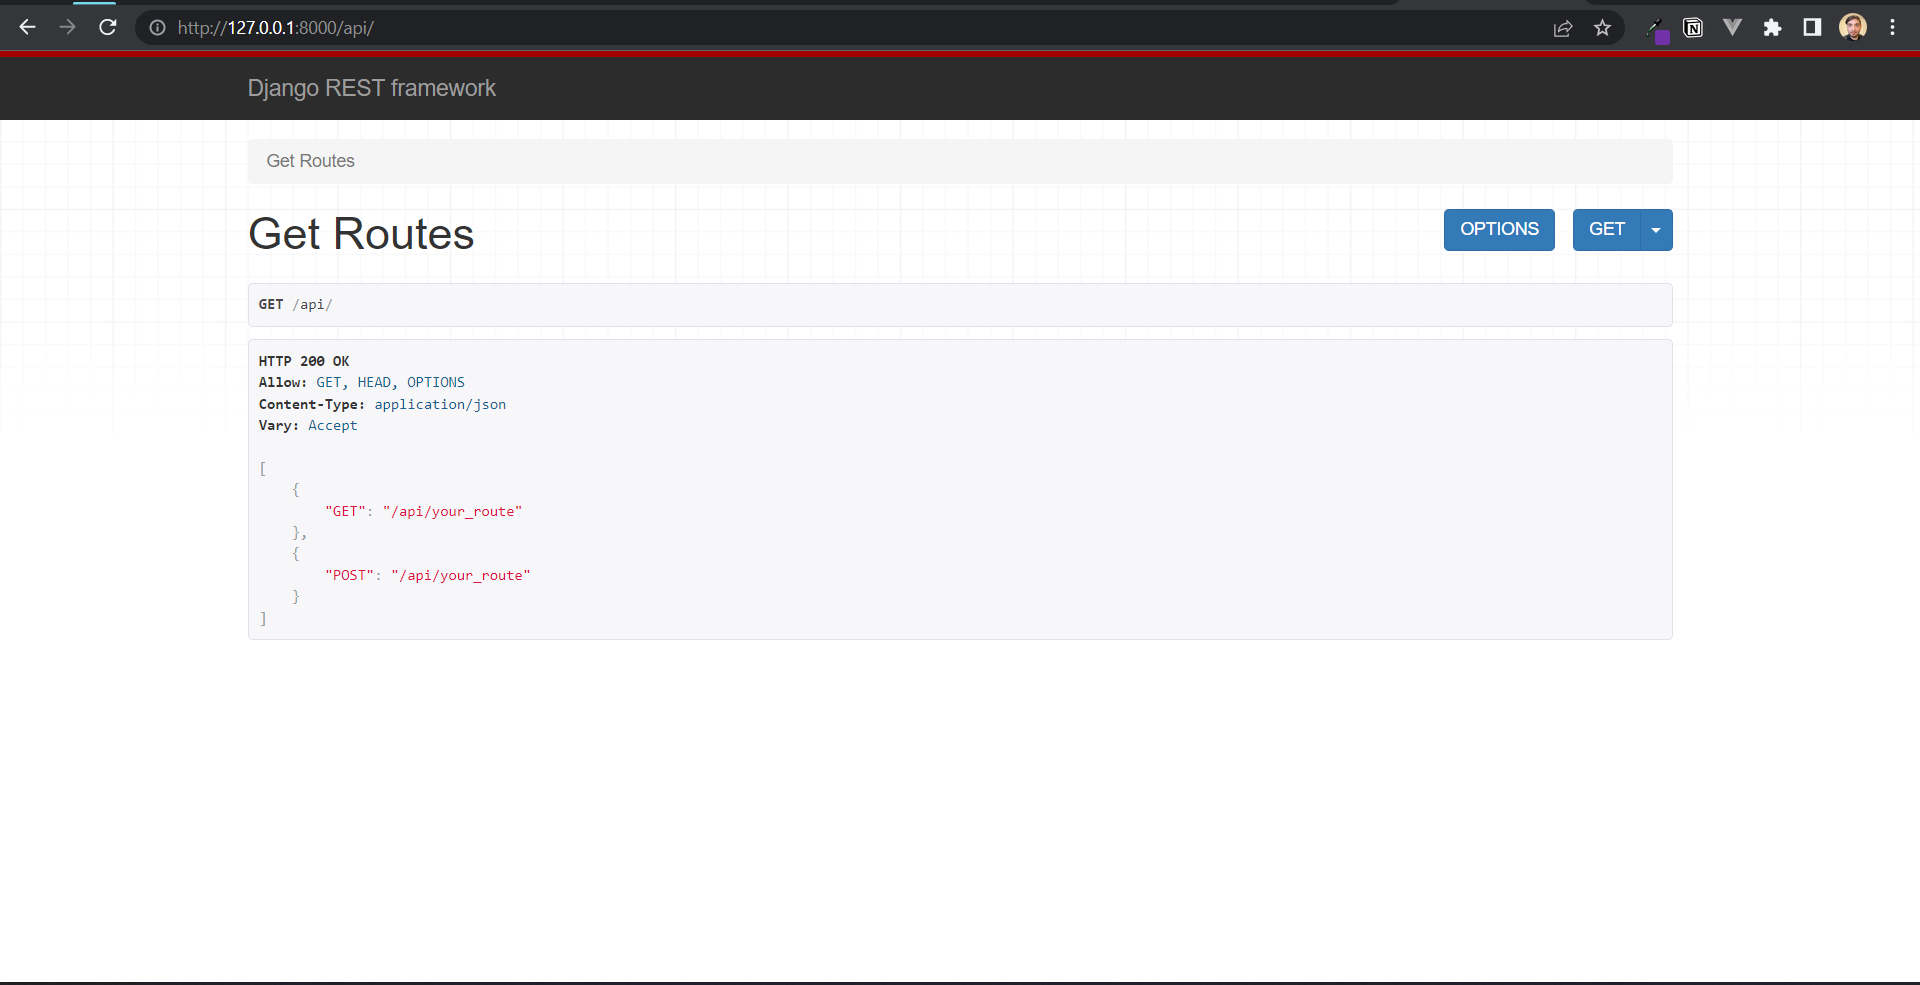
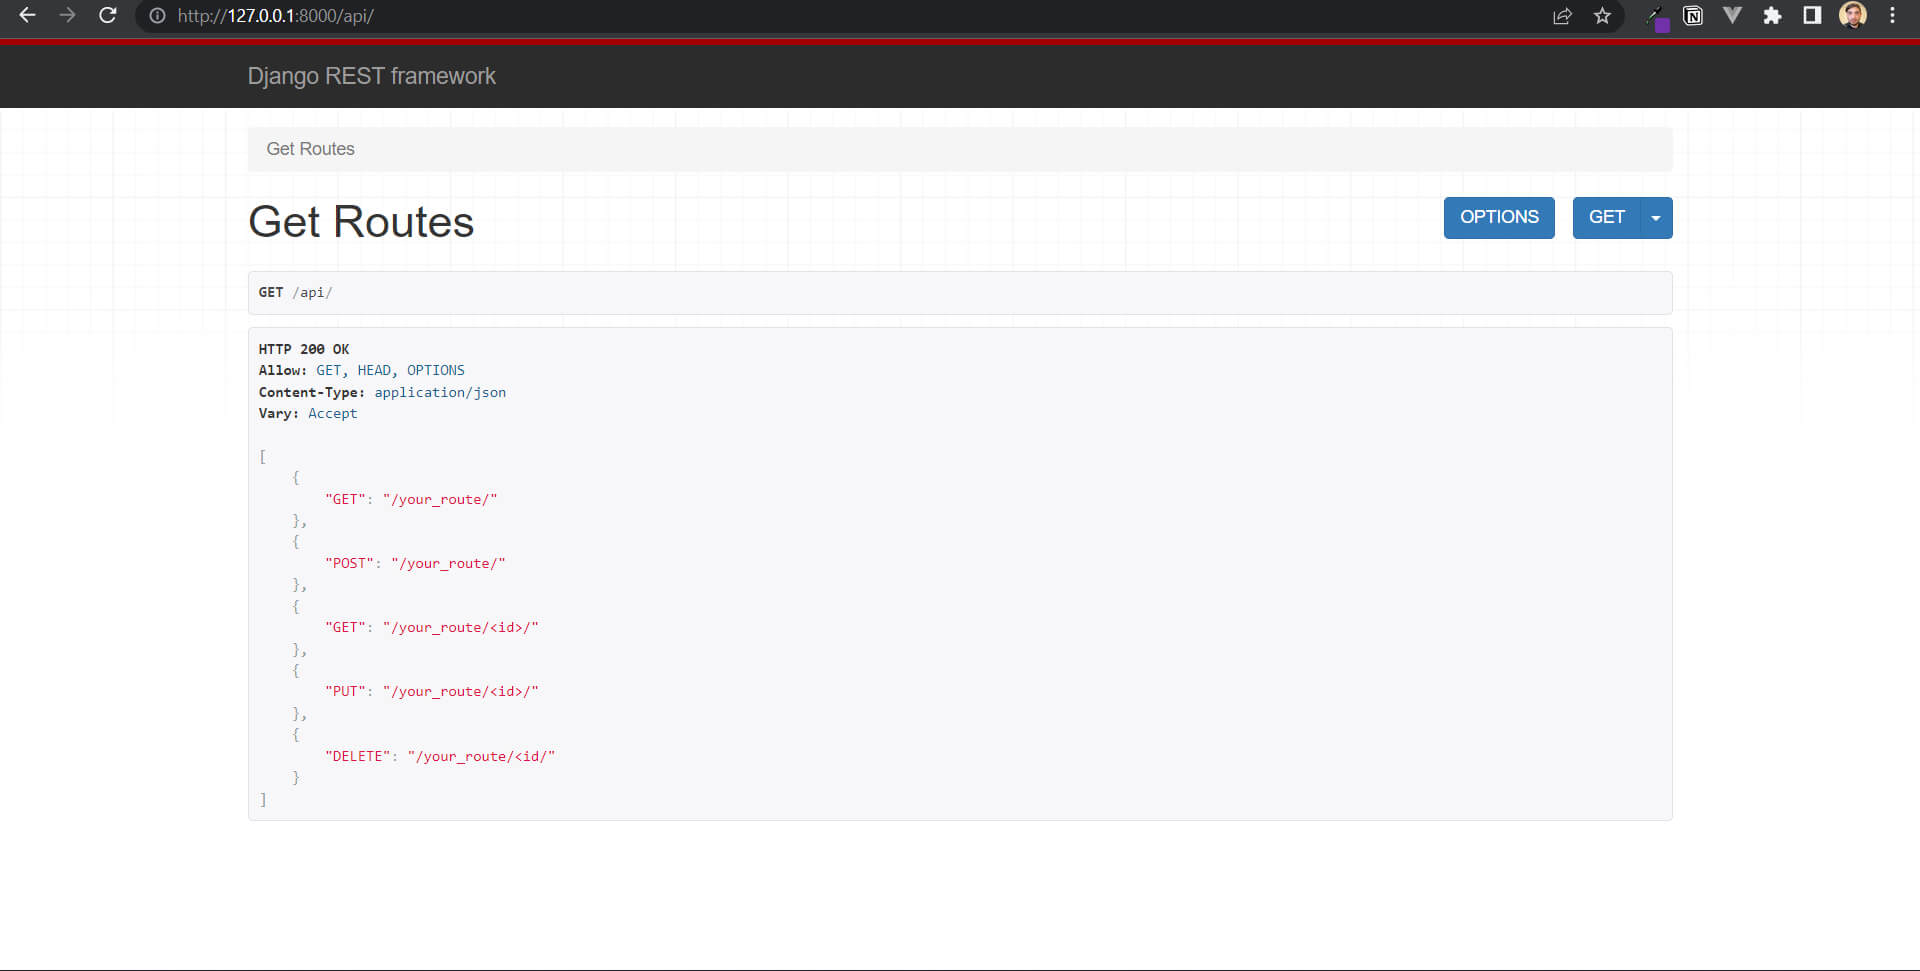
django boilerplate post mvp finished

diff --git a/components/AppHeader.vue b/components/AppHeader.vue
@@ -41,7 +41,6 @@ import 'animate.css';
         <a
           href="./assets/resume.pdf"
           class="clay-effect flex items-center rounded-lg border-0 bg-accent py-2 px-2 text-base text-black hover:bg-accent/75 focus:outline-none md:mt-0 md:inline-flex md:px-6"
-          download
         >
           Resume
           <svg

diff --git a/app/router.options.ts b/app/router.options.ts
@@ -5,7 +5,7 @@ export default <RouterConfig>{
     return (
       savedPosition ||
       new Promise((resolve) => {
-        setTimeout(() => resolve({ top: 0 }), 500);
+        setTimeout(() => resolve({ top: 0, behavior: 'smooth' }), 500);
       })
     );
   },

diff --git a/content/blog/3.how-to-create-a-django-rest-framework-boilerplate-project.md b/content/blog/3.how-to-create-a-django-rest-framework-boilerplate-project.md
@@ -43,8 +43,9 @@ virtualenv_name\scripts\activate
 
 Once you do that you should see your terminal path with a ( virtualenv_name ) before and that means that your virtual environment is activated.
 
-Installing dependencies
-We can manually install Django and everything else one by one but I recommend creating a requirements.txt file with all the things I need to install on the getgo and then I install any dependency as needed later.
+## Installing dependencies
+
+We can manually install Django and everything else one by one but I recommend creating a **requirements.txt** file with all the things I need to install on the get go and then I install any dependency as needed later.
 
 Your requirements.txt file should looks something like this:
 
@@ -54,8 +55,9 @@ Your requirements.txt file should looks something like this:
 
 I highly recommend doing a little research about the current version of your apps in order to avoid any issues in the future.
 
-Creating a new Django project
-Now is the time to create our Django project which is the base structure of our project.
+## Creating a new Django project
+
+Now is the time to create our **Django** project which is the base structure of our project.
 
 In your terminal run the following command:
 
@@ -65,9 +67,15 @@ django-admin startproject project_name .
 
 Keep in mind that there’s a dot at the end of the command that avoids creating a nested folder with everything inside so instead is creating the project on your current directory (you can actually put anything instead of the dot and that will create a new folder with all the project inside but I don’t do that because I called the root directory as the project name for convenience).
 
-Once we do that we’ll end up with a project_name folder and a manage.py file which we’ll use to run our Django commands.
+Once we do that we’ll end up with a **project_name** folder and a `manage.py` file which we’ll use to run our **Django** commands.
 
-Creating our API app
+## Creating our API app
+
+App is the name used in **django** for every functionality within our project. In order to create our API app we need to run the following command:
+
+```bash
+python manage.py startapp api
+```
 
 ## Register app in settings.py
 
@@ -106,8 +114,7 @@ def get(self, request):
 
             {'GET':'/your_route/<id>/'},
             {'PUT':'/your_route/<id>/'},
-            {'DELETE':'/your_route/<id/'},
-
+            {'DELETE':'/your_route/<id>/'},
         ]
 
         return Response(routes)
@@ -129,7 +136,7 @@ urlpatterns = [
 
 ## Include api urls in project_name urls.py
 
-We do this by add “include” from django.urls but since we are using this already to import our “path” we can just add it along with it by adding a comma next, then we add our api path:
+We do this by add **“include”** from django.urls but since we are using this already to import our “path” we can just add it along with it by adding a comma next, then we add our api path:
 
 ```python
 from django.contrib import admin
@@ -161,6 +168,6 @@ If everything went correct, we should be able to open our server in our browser 
 
 We should see a screen like this one:
 
-![api routes](https://geqogioegammsiznrksj.supabase.co/storage/v1/object/sign/media/blog/routes.jpg?token=eyJhbGciOiJIUzI1NiIsInR5cCI6IkpXVCJ9.eyJ1cmwiOiJtZWRpYS9ibG9nL3JvdXRlcy5qcGciLCJpYXQiOjE2NjAxODEwNTAsImV4cCI6MTk3NTU0MTA1MH0.PmU2M-DlCTViWThI2NbwZQjcsMokPU-EkebVhREideM&t=2022-08-11T01%3A24%3A10.817Z)
+![api routes](https://geqogioegammsiznrksj.supabase.co/storage/v1/object/sign/media/blog/routes.jpg?token=eyJhbGciOiJIUzI1NiIsInR5cCI6IkpXVCJ9.eyJ1cmwiOiJtZWRpYS9ibG9nL3JvdXRlcy5qcGciLCJpYXQiOjE2NjAyNjE4NzgsImV4cCI6MTk3NTYyMTg3OH0.PwOBkeMBlOICqeoPk5Vzh7Wt7WEuA8KXs4VPdEycKck&t=2022-08-11T23%3A51%3A18.316Z)
 
 And that’s it, now you’re ready to add everything else to your project. I hope that helps you as it will for me every time I want to create a new full-stack project. Thanks for reading and have a good one :).
